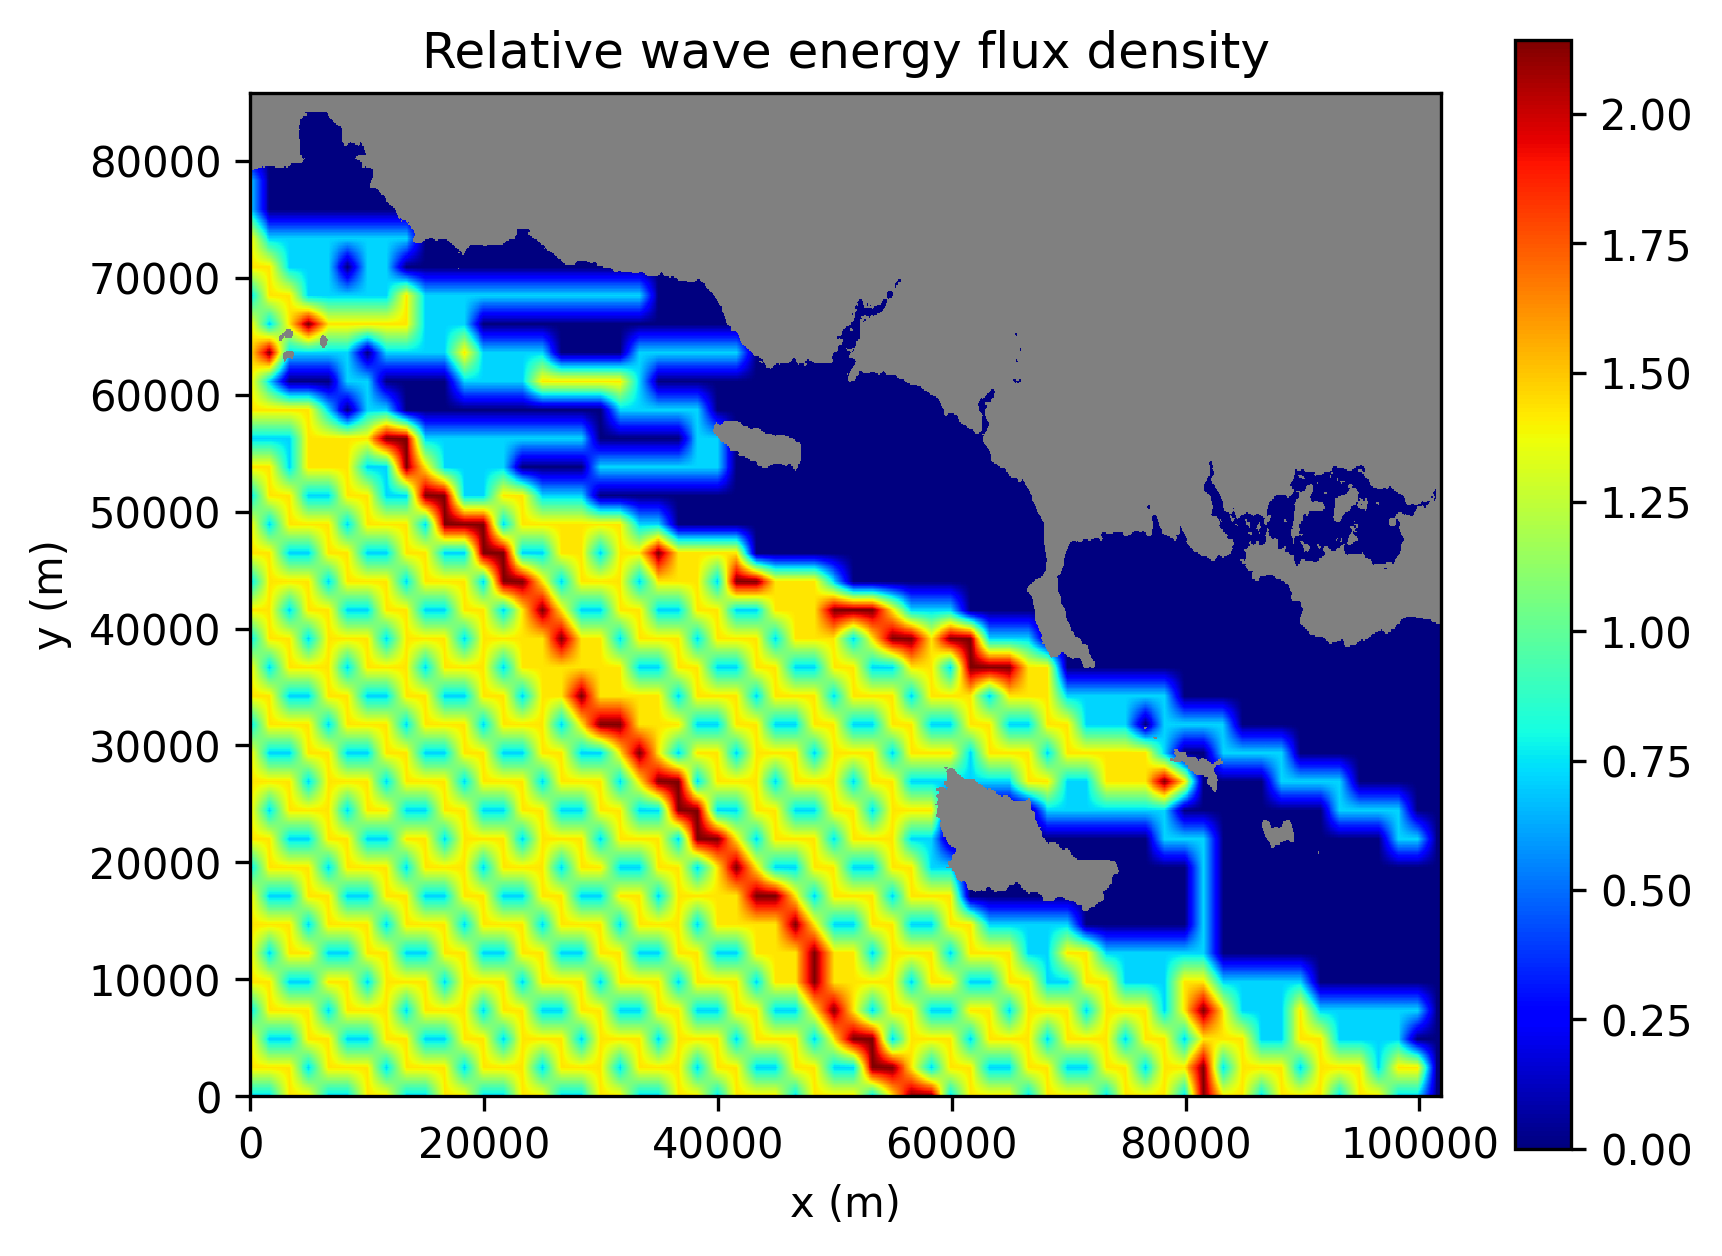
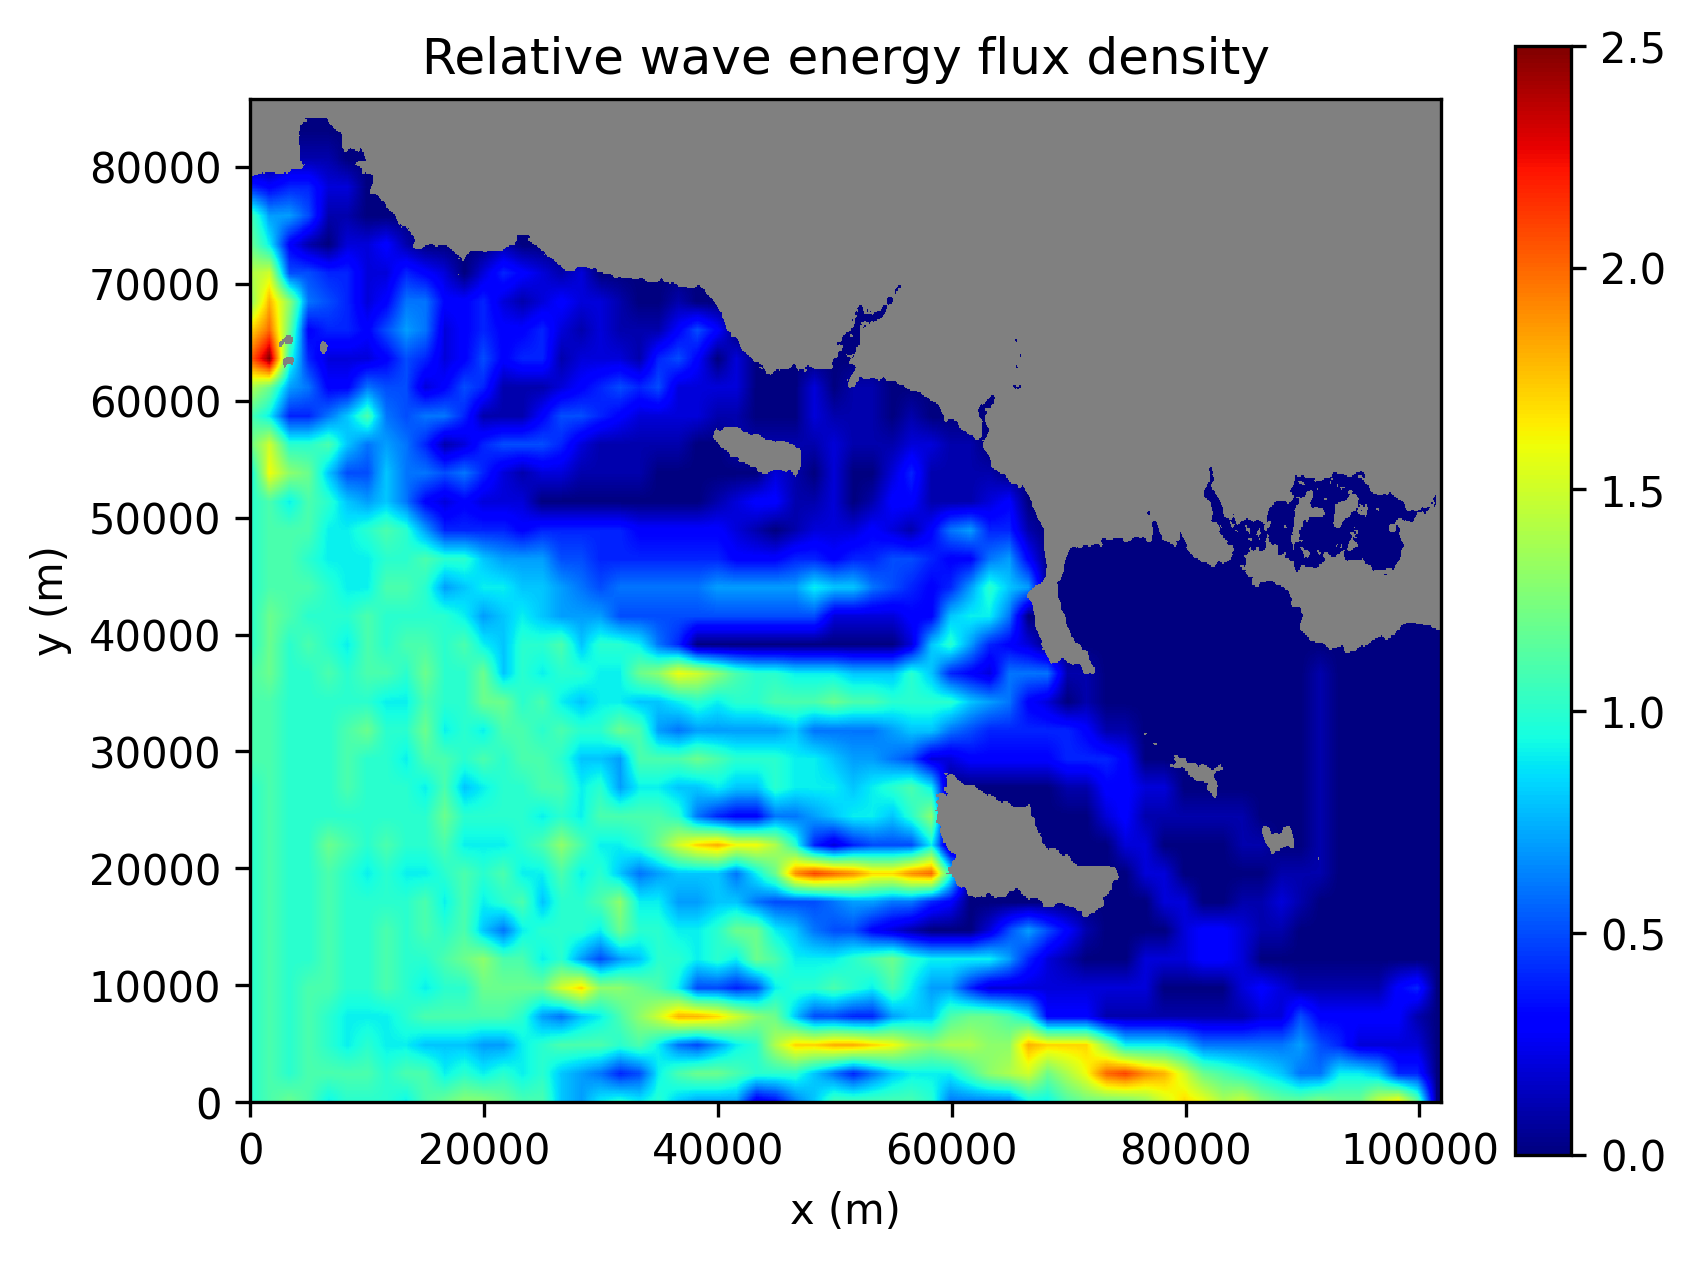
Update wave parameters for improved simulation accuracy and enhance logging information

diff --git a/Part_2_Ray_Tracing/demo_CA.py b/Part_2_Ray_Tracing/demo_CA.py
@@ -5,11 +5,11 @@ import matplotlib.pyplot as plt
 from ocean_wave_tracing import Wave_tracing
 import cmocean
 
-period= 5.0 # wave period (s)
+period= 15.0 # wave period (s)
 ang   = 105 # wave direction (deg)
-nr    = 50  # number of wave rays
-simtime = 3600*8 # propagate 8 hour
-nt    = 2000 # number of time steps
+nr    = 300  # number of wave rays
+simtime = 3600*2.5 # propagate 2.5 hour
+nt    = 5000 # number of time steps
 fname = Path(__file__).resolve().parent / 'GMRTv4_4_0_20251107topo.asc' # bathymetry file
 fig_dir = Path(__file__).resolve().parent / "figures"
 fig_dir.mkdir(parents=True, exist_ok=True)
